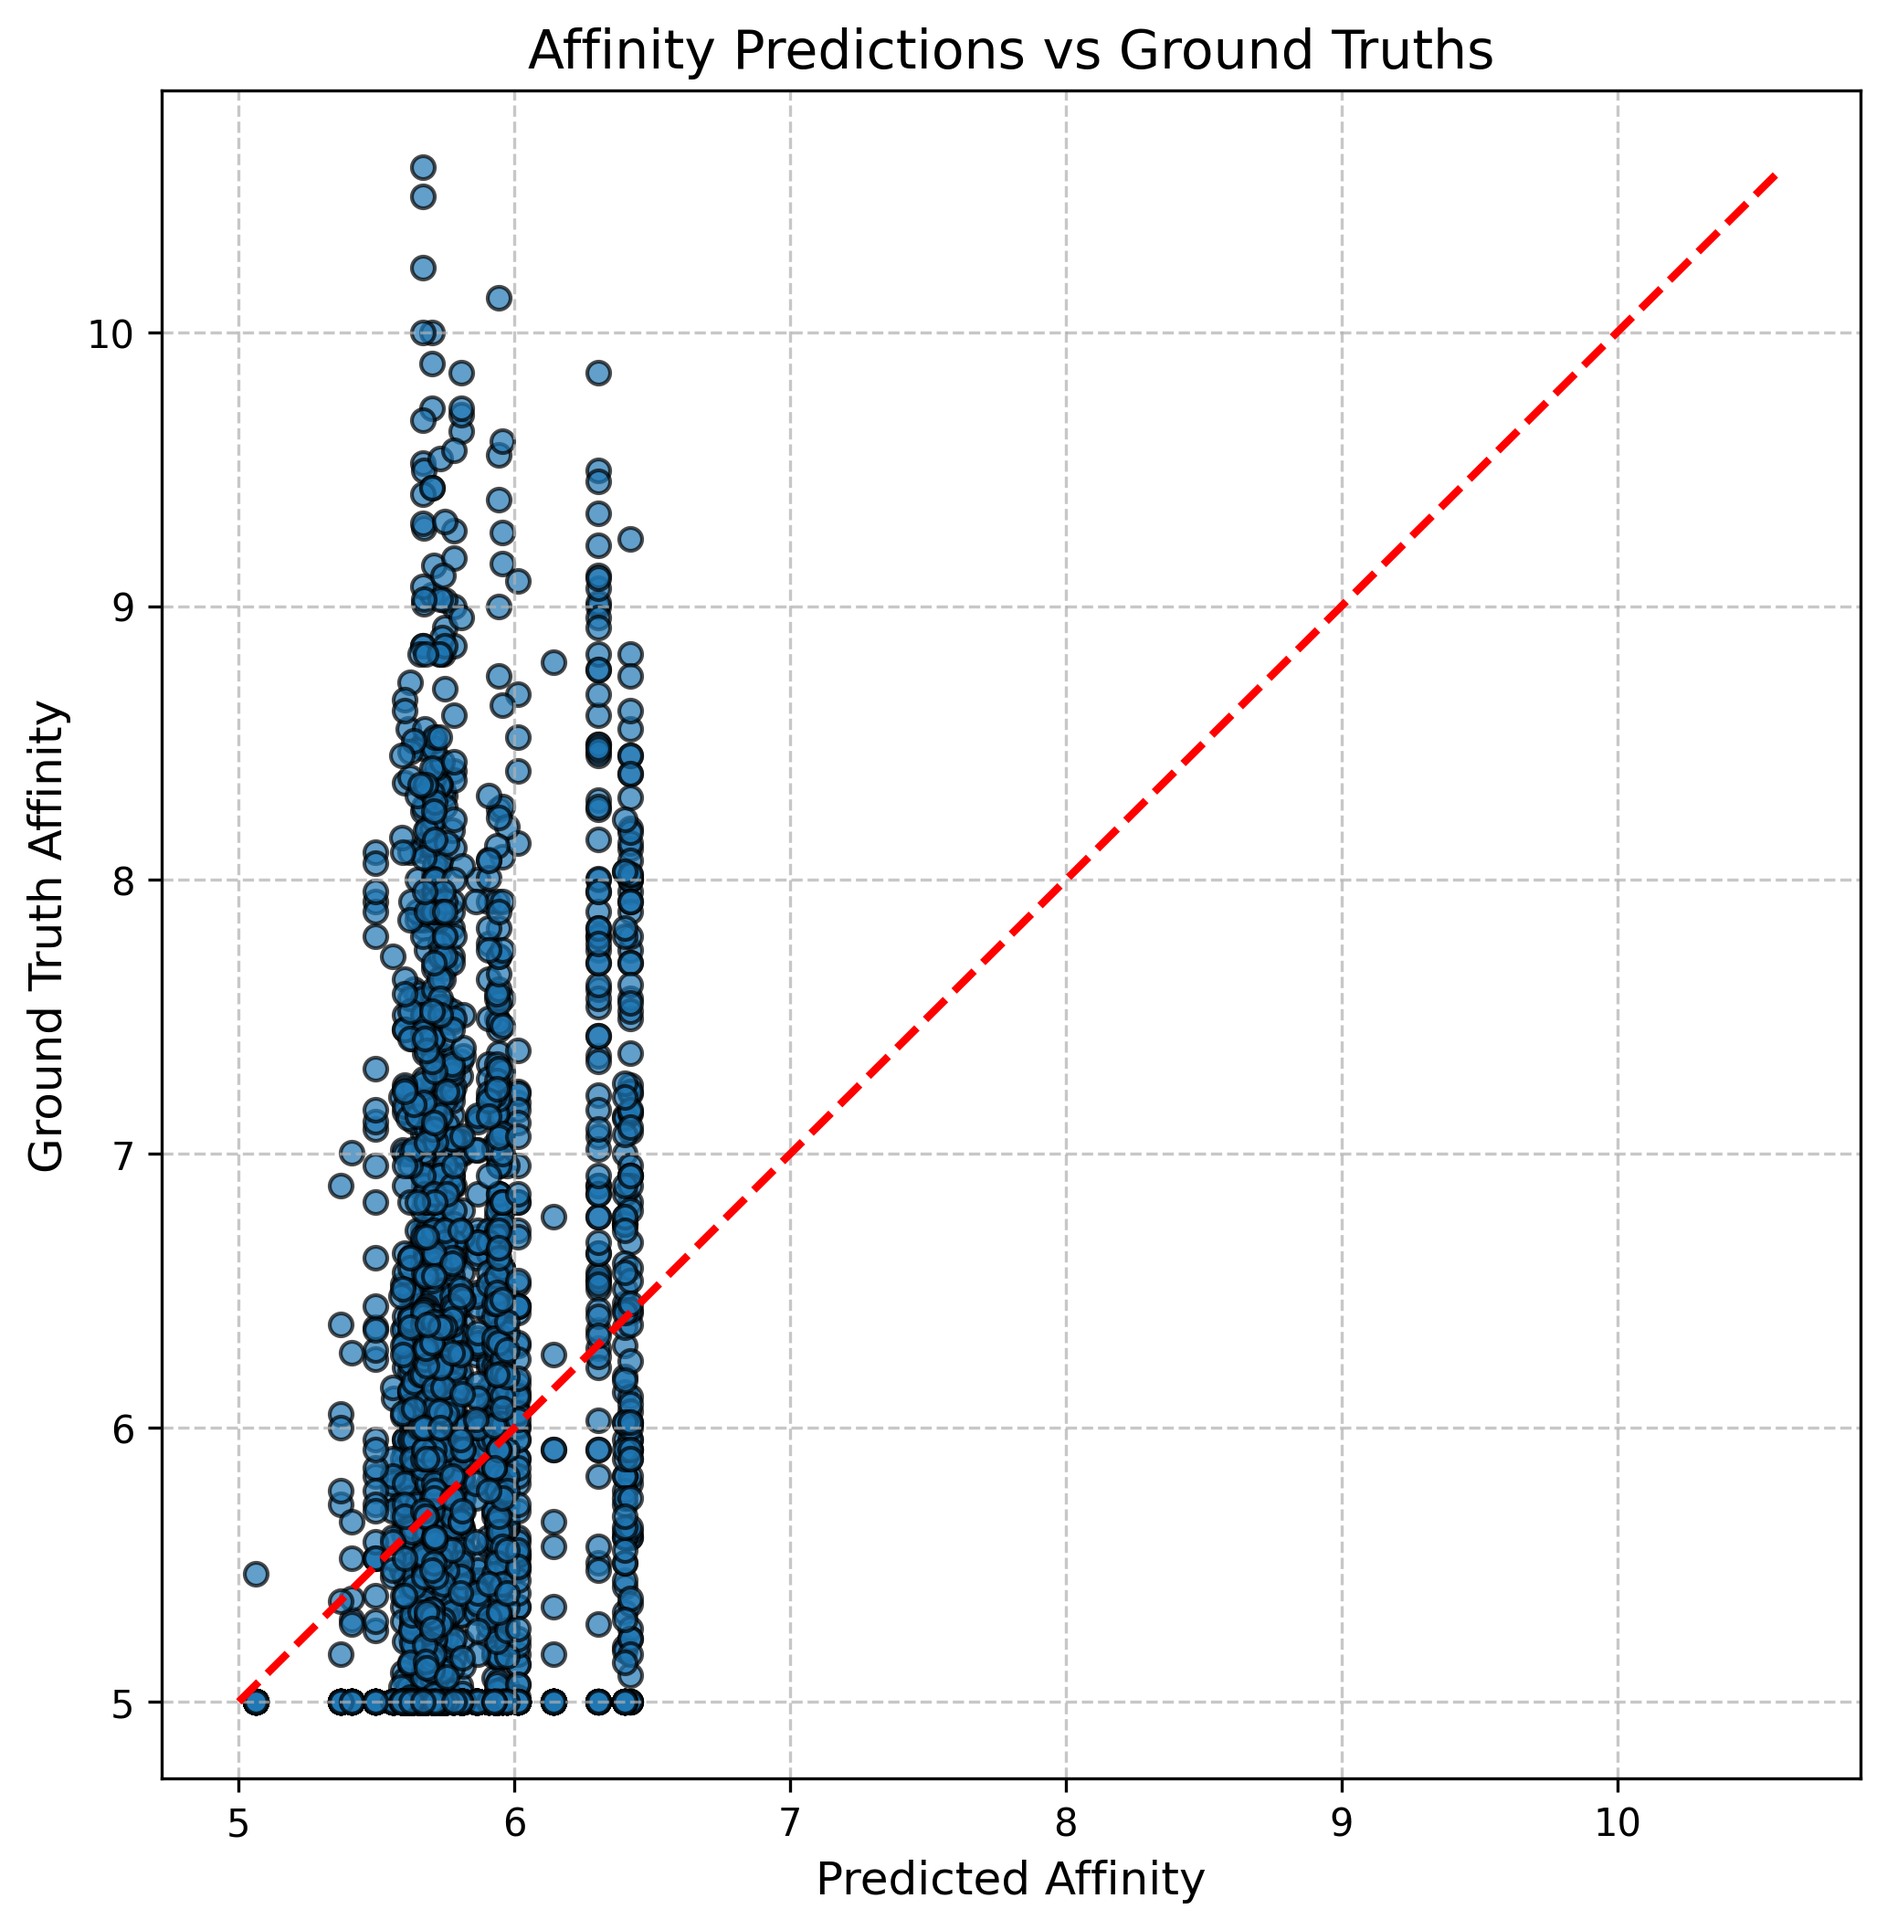
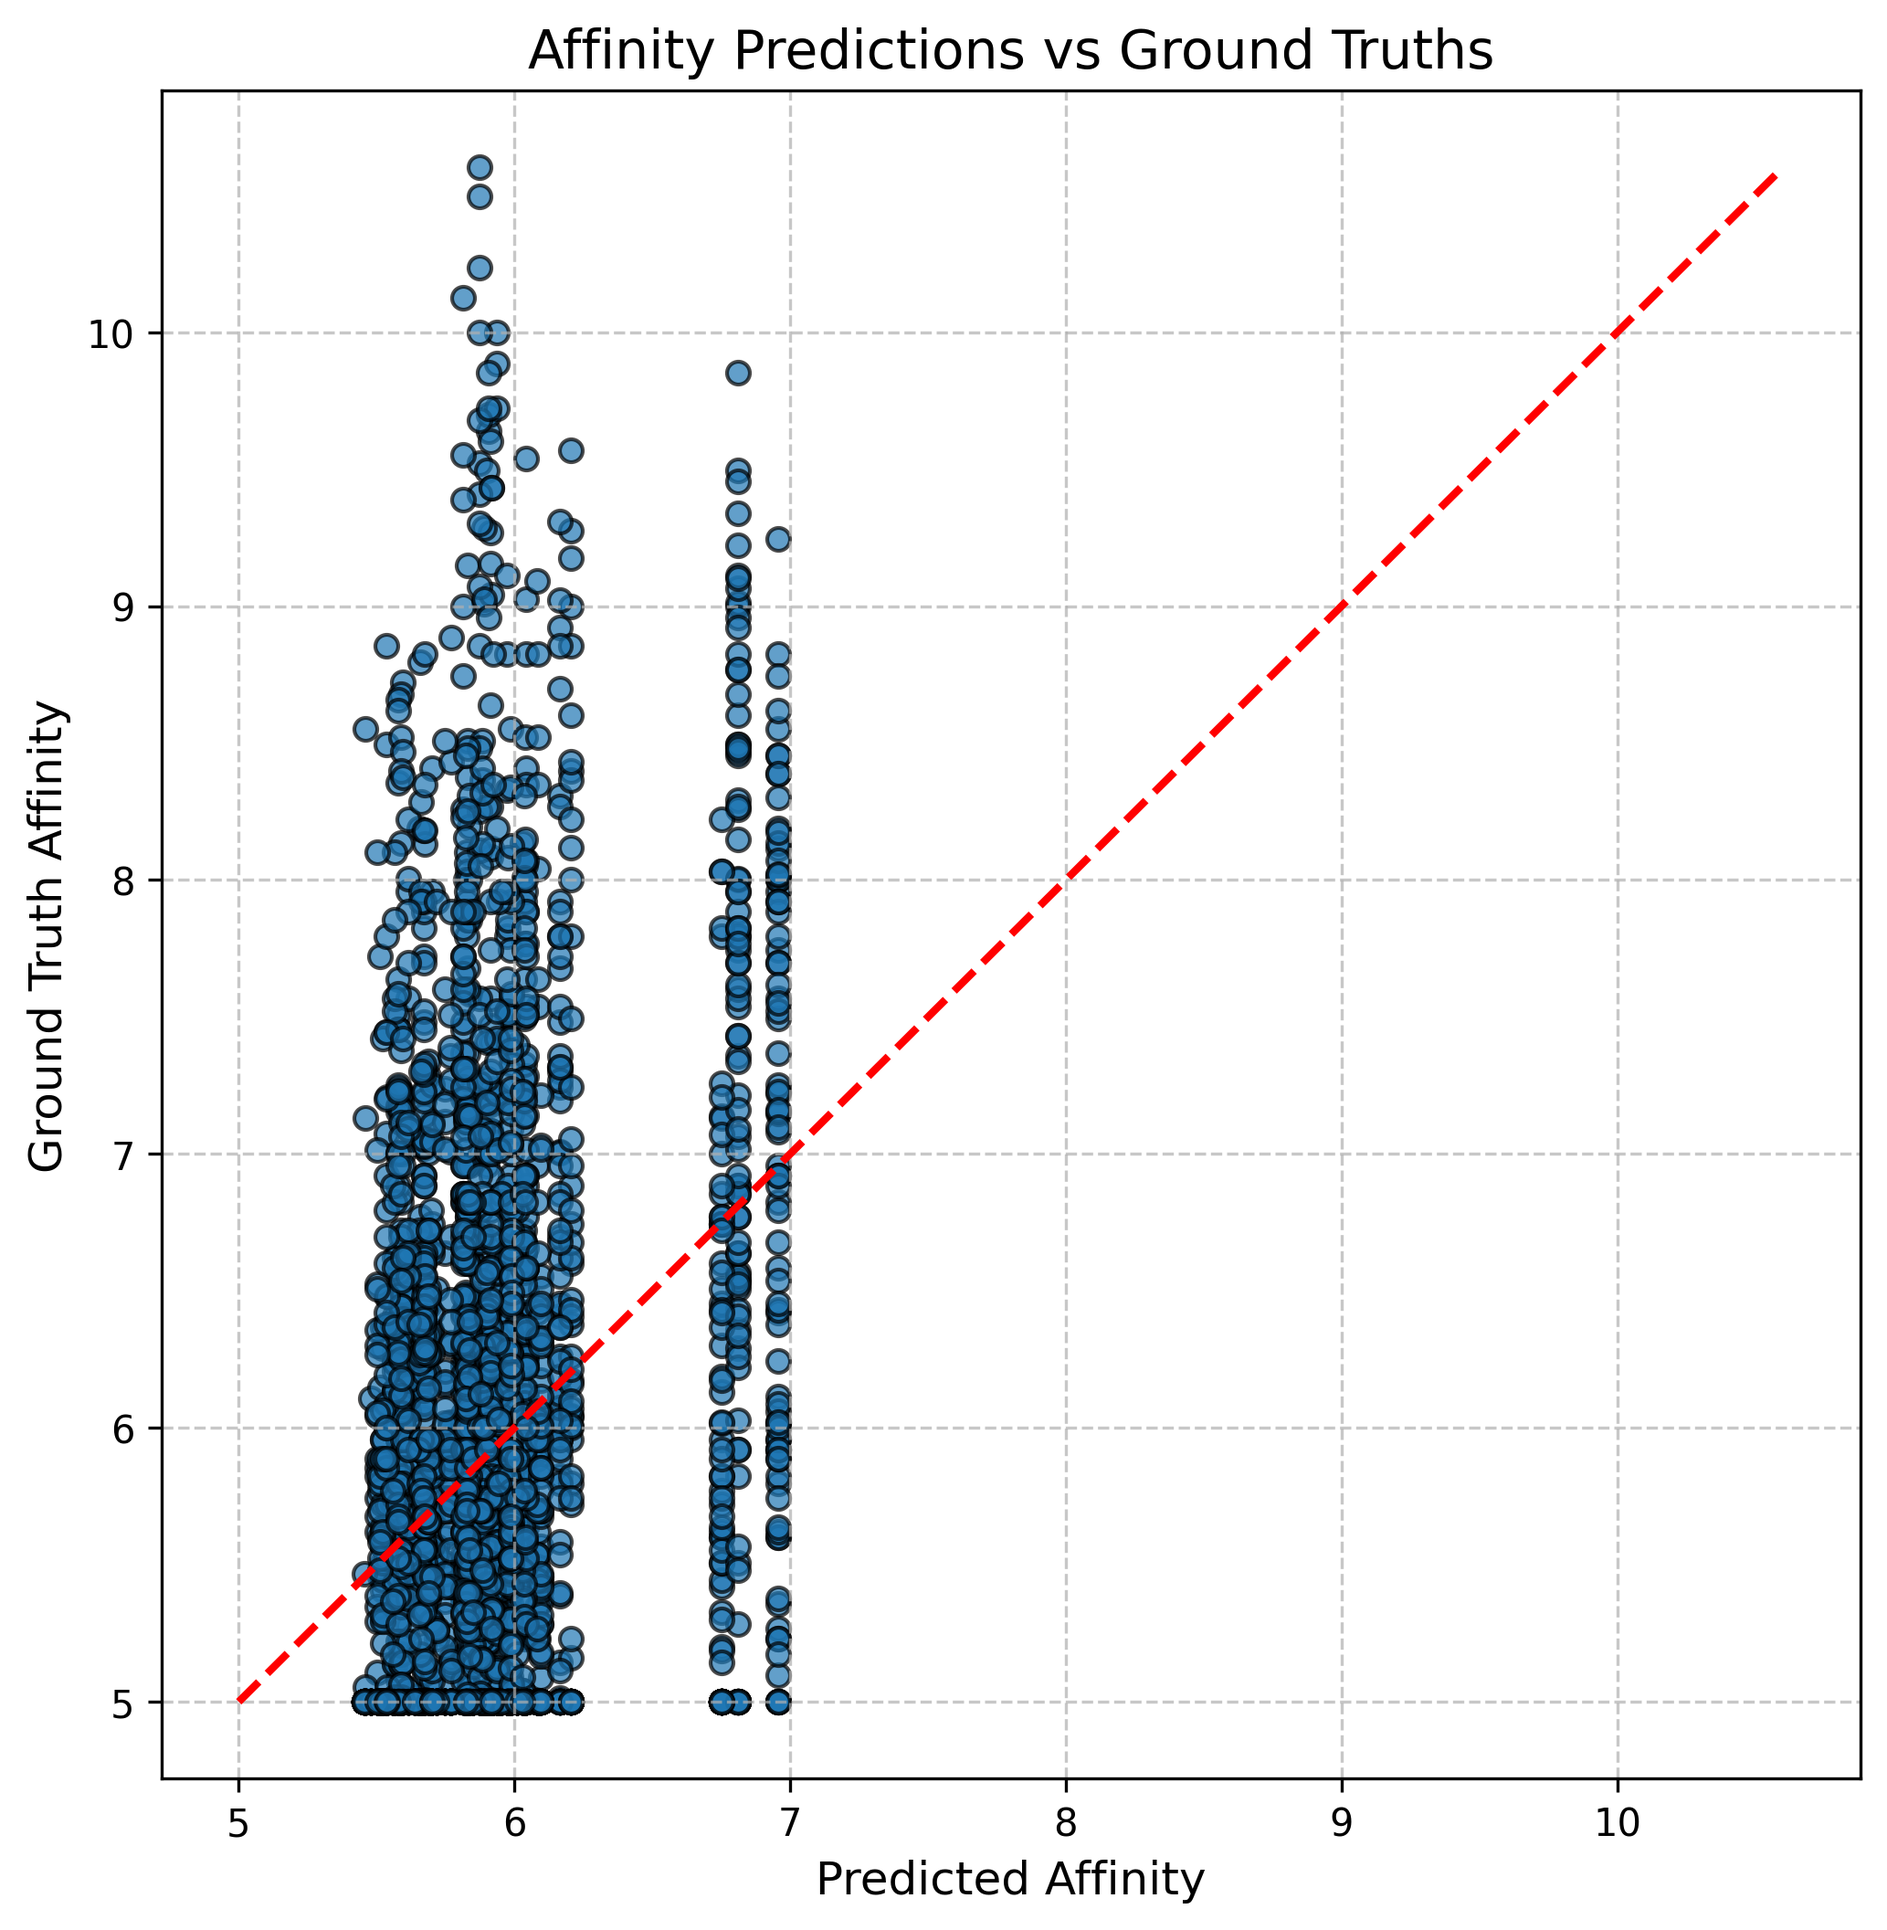
gnn

Changed region(s): [[0.1239, 0.0625, 0.3408, 0.9058], [0.3717, 0.1874, 0.4337, 0.9058]]

diff --git a/code/layers.py b/code/layers.py
@@ -4,7 +4,7 @@ import torch.nn.functional as F
 from torch_geometric.data import Data, Batch
 from torch_geometric.loader import DataLoader
 from torch_geometric.nn import GCNConv, GINEConv, global_mean_pool
-from torch_geometric.nn import global_add_pool, global_max_pool
+from torch_geometric.nn import global_add_pool, global_max_pool, global_mean_pool
 from torch.nn.functional import softmax
 from transformers import BertModel, BertTokenizer
 from transformers import AutoModel, AutoTokenizer
@@ -54,16 +54,33 @@ class GNNEncoder(nn.Module):
             nn.ReLU(),
             nn.Linear(hidden_dim, output_dim)
         ), edge_dim=edge_dim)
+        
+        self.batchnorm1 = nn.BatchNorm1d(hidden_dim)
+        self.batchnorm2 = nn.BatchNorm1d(output_dim)
+        self.dropout = nn.Dropout(p=0.2)
+        
+        self.proj1 = nn.Linear(input_dim, hidden_dim)
+        self.proj2 = nn.Linear(hidden_dim, output_dim)
 
     def forward(self, x, edge_index, edge_attr, batch):
+        # residual
+        residual1 = self.proj1(x)
         x = self.conv1(x, edge_index, edge_attr).relu()
+        x = self.batchnorm1(x)
+        x = self.dropout(x)
+        x = x + residual1
+        
+        residual2 = self.proj2(x)
         x = self.conv2(x, edge_index, edge_attr).relu()
+        x = self.batchnorm2(x)
+        x = self.dropout(x)
+        x = x + residual2
         
         device = x.device
         # batch = torch.zeros(x.size(0), dtype=torch.long, device=device)
         # print(f"Batch tensor: {batch}")
         # print(f"Batch tensor shape: {batch.shape}")
-        return global_mean_pool(x, batch)
+        return global_add_pool(x, batch)  # mean / max
         # return global_mean_pool(x, torch.zeros(x.size(0), dtype=torch.long))
 
 

diff --git a/code/utils.py b/code/utils.py
@@ -80,7 +80,7 @@ def load_checkpoint(model, optimizer, checkpoint_path):
 
 
 class EarlyStopping:
-    def __init__(self, patience=5, verbose=False, checkpoint_dir="E:/AIDD_project/checkpoints/early_stop"):
+    def __init__(self, patience=5, verbose=False, checkpoint_dir="E:/AIDD_project/checkpoints/best_model"):
         """
         Args:
             patience (int): Number of epochs to wait for improvement before stopping.
